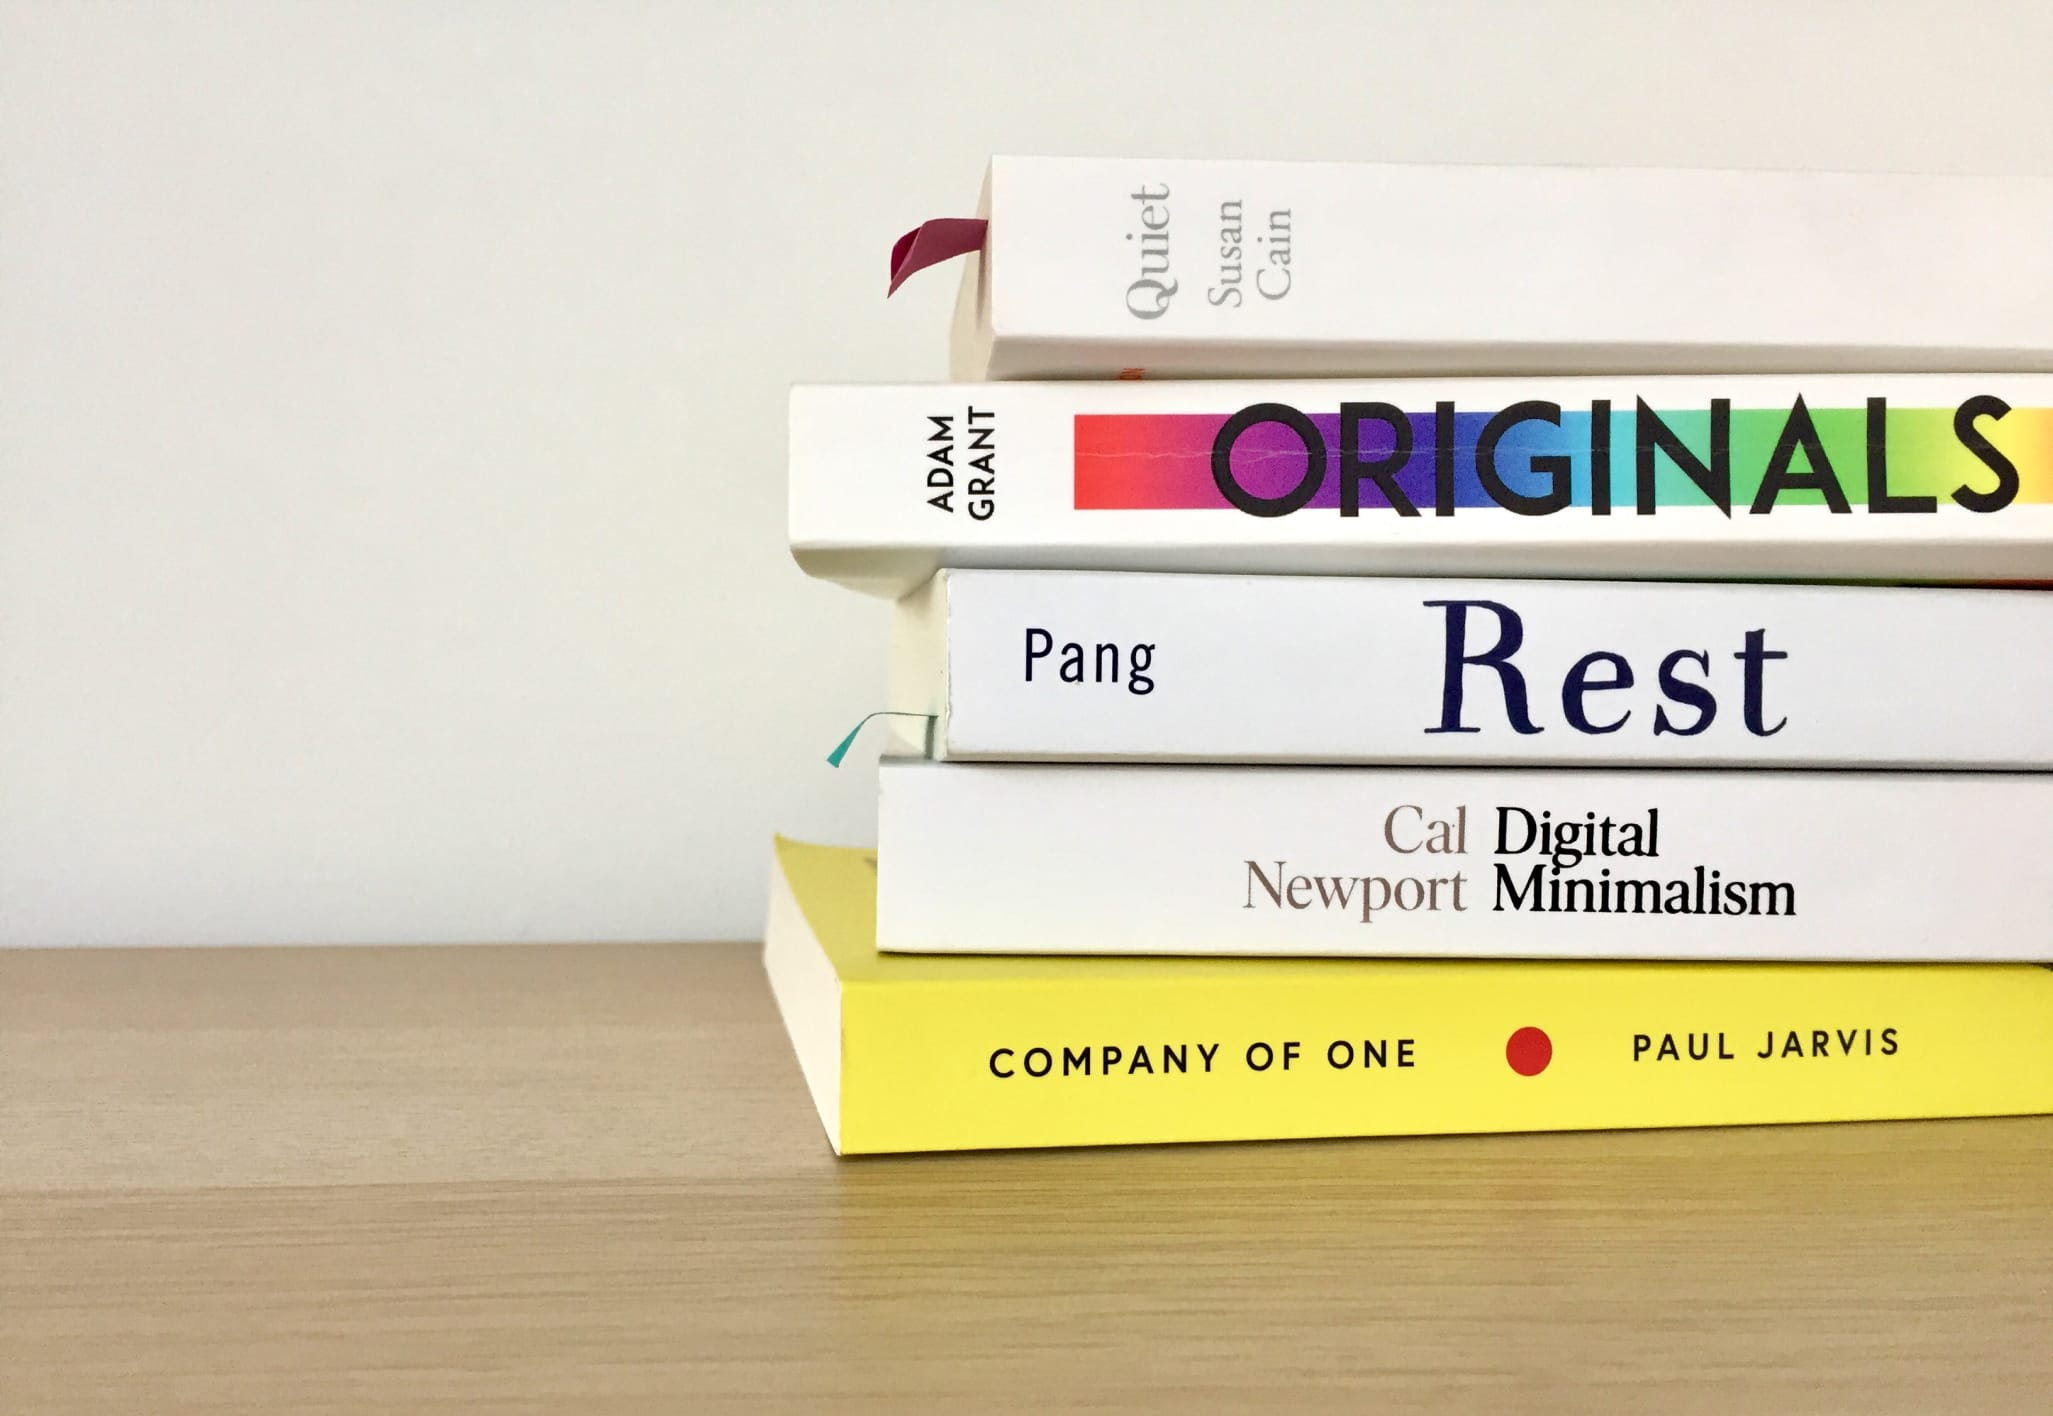
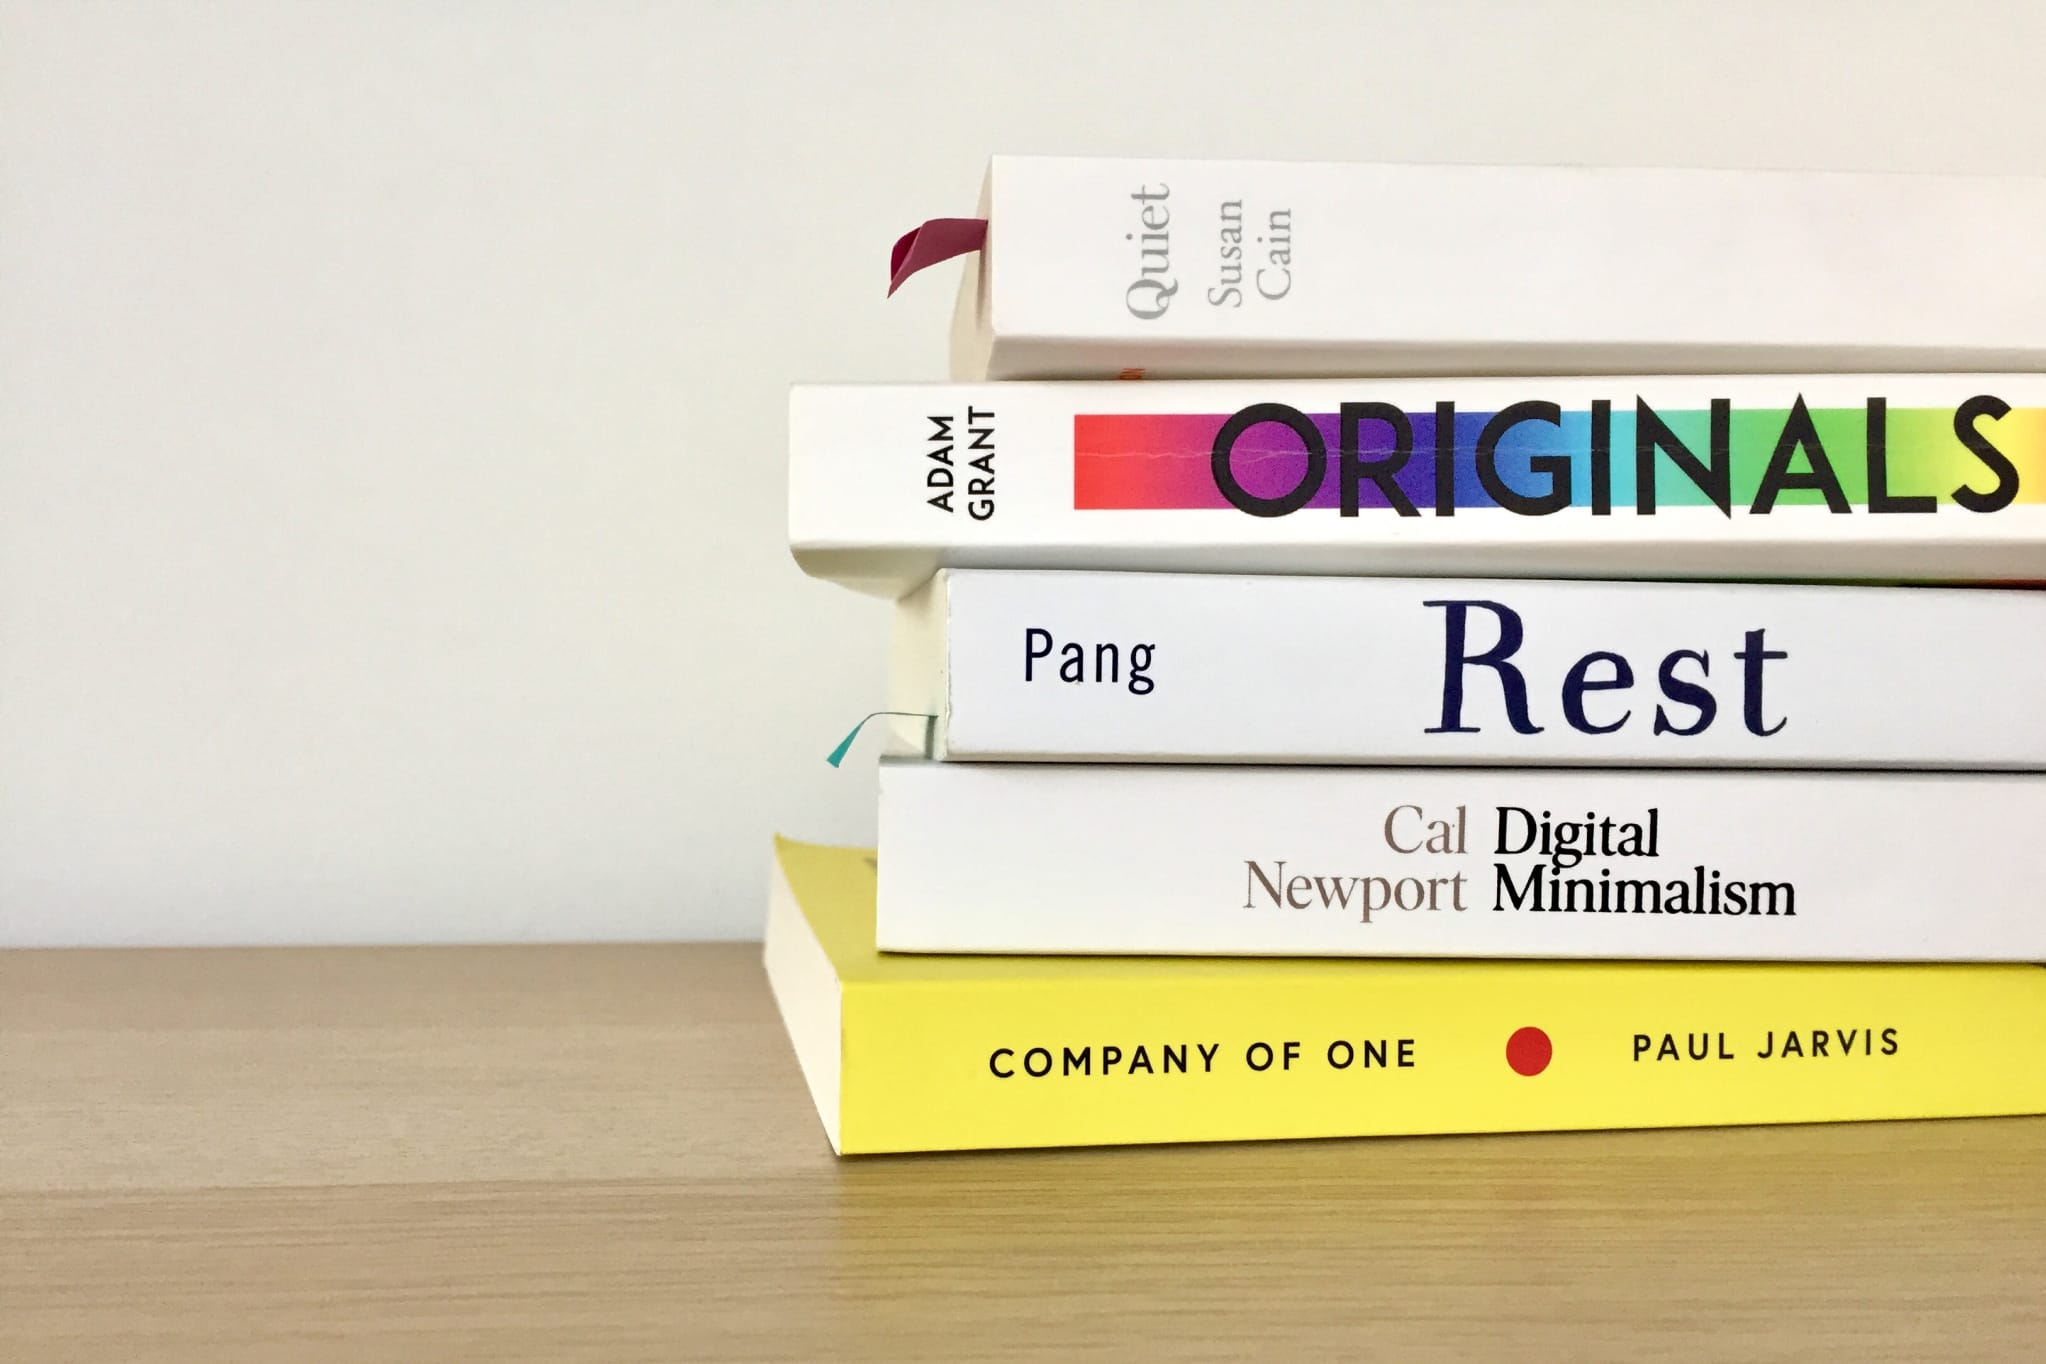
Full-bleed-image

Changed region(s): [[0.0, 0.1232, 1.0, 0.9238]]

diff --git a/_site/personal-notes/2020/01/18/my-favourite-books-of-2019/index.html b/_site/personal-notes/2020/01/18/my-favourite-books-of-2019/index.html
@@ -159,10 +159,7 @@
   <p class="attention-grabber">I continued with my habit of reading for at least 30 minutes a day in 2019. It’s now such a fundamental part of my life that I can’t imagine spending a day without it. If someone told me this when I was a teenager, I’d have a good laugh and go back to playing video games.</p>
   
 
-    
-<figure class="image">
-  
-
+    <figure class="full-bleed-image">
   <img src="/assets/images/fav-books-2019.jpg" alt="" />
   <figcaption> </figcaption>
 </figure>

diff --git a/_posts/2020-01-26-my-favourite-books-of-2019.md b/_posts/2020-01-26-my-favourite-books-of-2019.md
@@ -17,7 +17,7 @@ intro: I continued with my habit of reading for at least 30 minutes a day in 201
 
 ---
 
-{% include image.html url="/assets/images/fav-books-2019.jpg" %}
+{% include full-bleed-image.html url="/assets/images/fav-books-2019.jpg" %}
 
 According to my Goodreads’ *[My Year in Books 2019](https://www.goodreads.com/user/year_in_books/2019)* report, I read 24 books last year. That’s five more than the year before but still one short from reaching my goal of 25. I guess I’m slowly getting there. This is a list of my favourite books that I *read* in 2019, not of books that were published in 2019 (although some of them were). And they’re not sorted in any order at all, the same as my lists for [my favourite books of 2017](https://matejlatin.co.uk/personal-notes/2017/12/22/my-favourite-books-of-2017/) and [my favourite books of 2018](https://matejlatin.co.uk/personal-notes/2019/01/18/my-favourite-books-of-2018/) weren’t.
 
